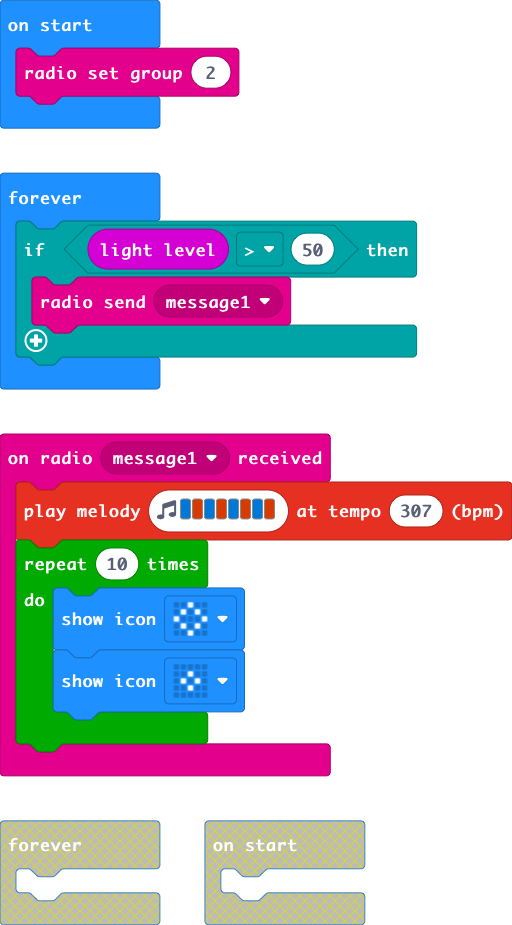
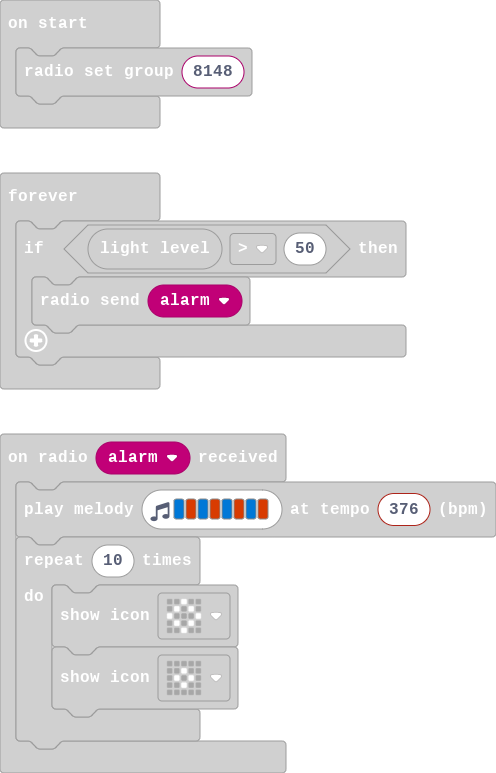
Update pxt.json, main.blocks, main.ts

diff --git a/main.ts b/main.ts
@@ -1,16 +1,17 @@
 enum RadioMessage {
-    message1 = 49434
+    message1 = 49434,
+    alarm = 2438
 }
-radio.onReceivedMessage(RadioMessage.message1, function () {
-    music.playMelody("E B E B E B E B ", 307)
+radio.onReceivedMessage(RadioMessage.alarm, function () {
+    music.playMelody("E B E B E B E B ", 376)
     for (let index = 0; index < 10; index++) {
         basic.showIcon(IconNames.Diamond)
         basic.showIcon(IconNames.SmallDiamond)
     }
 })
-radio.setGroup(2)
+radio.setGroup(8148)
 basic.forever(function () {
     if (input.lightLevel() > 50) {
-        radio.sendMessage(RadioMessage.message1)
+        radio.sendMessage(RadioMessage.alarm)
     }
 })
